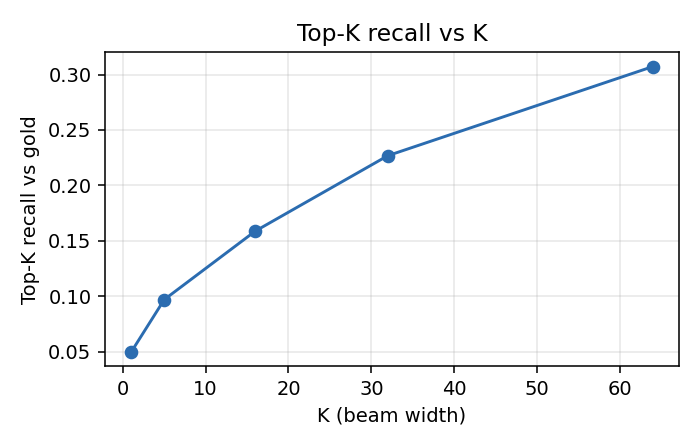
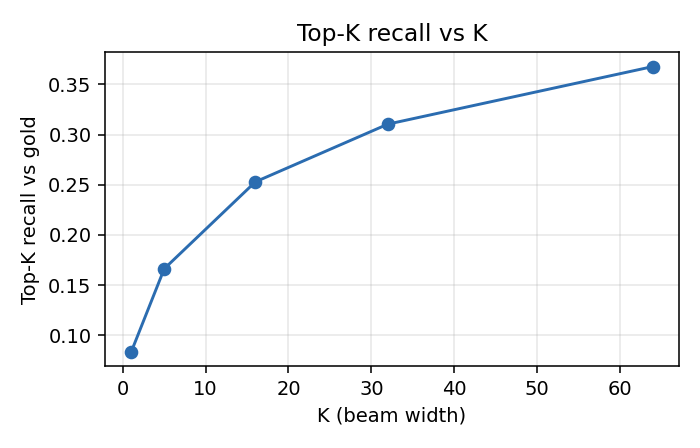
check recall for ALL sentence not just 1000

diff --git a/cushr_gpu/BATCHED_BENCHMARK.md b/cushr_gpu/BATCHED_BENCHMARK.md
@@ -1,20 +1,21 @@
 # cuSHR Batched (K3 + K5) Benchmark — Week 8
 
+A100 (Lonestar6), whole SIGHUM corpus: 119,503 sentences / 4,488,155 nodes.
+Job `batched_full.o3297178`.
+
 ## Results
 
-<!-- BEGIN AUTO-GENERATED RESULTS (make_benchmark_md.py --inject) -->
-
-**Correctness:** SCORE-EQUIVALENT to CPU at every K (spot-checked on the first 1000 of 119503 sentences per K).
+**Correctness:** SCORE-EQUIVALENT to CPU at every K, checked on all 119,503 sentences.
 
 ## Throughput and memory vs K
 
 | K | sent/sec (kernel) | µs/sent (kernel) | µs/sent (loop) | table MB | used MB |
 |---|------------------:|-----------------:|---------------:|---------:|--------:|
-| 1 | 939934 | 1.1 | 1.1 | 68.5 | 72.0 |
-| 5 | 898524 | 1.1 | 1.1 | 273.9 | 276.0 |
-| 16 | 979102 | 1.0 | 1.0 | 838.9 | 840.0 |
-| 32 | 954268 | 1.0 | 1.0 | 1660.7 | 1662.0 |
-| 64 | 465990 | 2.1 | 2.1 | 3304.3 | 3306.0 |
+| 1 | 936194 | 1.1 | 1.1 | 68.5 | 72.0 |
+| 5 | 897267 | 1.1 | 1.1 | 273.9 | 276.0 |
+| 16 | 944192 | 1.1 | 1.1 | 838.9 | 840.0 |
+| 32 | 977700 | 1.0 | 1.0 | 1660.7 | 1662.0 |
+| 64 | 443596 | 2.3 | 2.3 | 3304.3 | 3306.0 |
 
 ## Launch count (batched sweep)
 
@@ -25,6 +26,9 @@
 | 16 | 1 | 50 | 2390 |
 | 32 | 1 | 50 | 2390 |
 | 64 | 1 | 50 | 2390 |
+
+K2 launches the same kernel **1,205,796** times for the same corpus (one launch per
+non-source level per sentence). K3 does it in **50** — a 24,116x reduction.
 
 ## Batch-size sweep (memory vs speed)
 
@@ -41,24 +45,24 @@
 
 | batch | chunks | launches | K=1 | K=5 | K=16 | K=32 | K=64 |
 |---|-------:|---------:|------:|------:|------:|------:|------:|
-| 256 | 467 | 10126 | 76446 | 75147 | 77500 | 78327 | 31993 |
-| 1024 | 117 | 3139 | 173535 | 170815 | 184688 | 180257 | 76045 |
-| 4096 | 30 | 1003 | 342212 | 345362 | 356706 | 357327 | 162726 |
-| -1 (whole corpus) | 1 | 50 | 939934 | 898524 | 979102 | 954268 | 465990 |
+| 256 | 467 | 10126 | 78114 | 74664 | 77347 | 80332 | 32147 |
+| 1024 | 117 | 3139 | 170719 | 169379 | 180651 | 177572 | 74903 |
+| 4096 | 30 | 1003 | 331754 | 323681 | 357029 | 364633 | 162631 |
+| -1 (whole corpus) | 1 | 50 | 936194 | 897267 | 944192 | 977700 | 443596 |
 
 ## Top-K recall vs gold
 
-Measured over the 485 checked sentences that carry a resolved gold path.
+All 119,503 sentences checked; 59,092 carry a resolved gold path.
+Identical to K2 at every K, as required by score-equivalence.
 
-| K | recall@K |
-|---|---------:|
-| 1 | 0.0495 |
-| 5 | 0.0969 |
-| 16 | 0.1588 |
-| 32 | 0.2268 |
-| 64 | 0.3072 |
+| K | K3/K5 recall@K | K2 recall@K |
+|---|---------------:|------------:|
+| 1 | 0.083125 | 0.083125 |
+| 5 | 0.166283 | 0.166283 |
+| 16 | 0.252894 | 0.252894 |
+| 32 | 0.310448 | 0.310448 |
+| 64 | 0.367867 | 0.367867 |
 
 ![Top-K recall vs K](batched_recall_vs_k.png)
 
 ![Throughput vs K](batched_throughput_vs_k.png)
-
